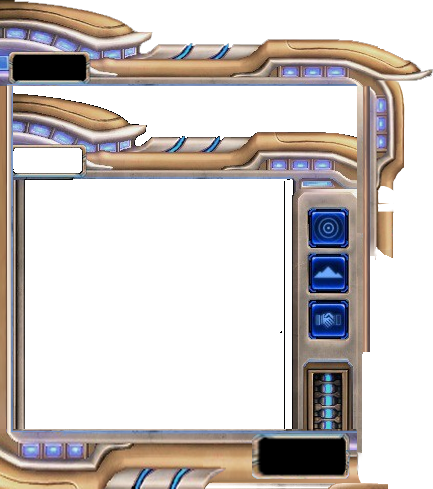
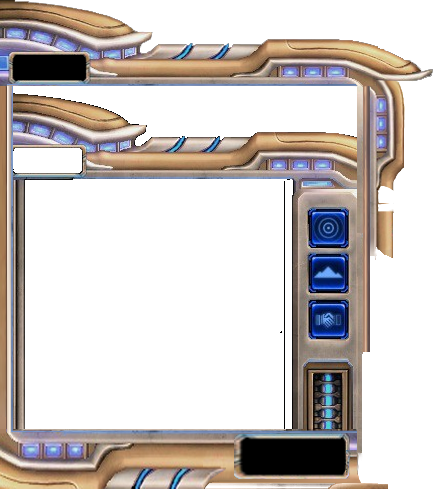
implemented basic game timer

Changed region(s): [[0.5404, 0.8896, 0.6305, 0.9816], [0.9607, 0.1227, 1.0, 0.1534], [0.6005, 0.0613, 0.6305, 0.092]]

diff --git a/src/App.js b/src/App.js
@@ -9,6 +9,18 @@ import {DefaultData} from './DefaultData';
 const MAX_EVENTS = 5;
 const EVENT_LIFETIME = 10000;
 
+function hhmmss(sec_num) {
+    let secAbs = Math.abs(sec_num);
+    var hours   = Math.floor(secAbs / 3600);
+    var minutes = Math.floor((secAbs - (hours * 3600)) / 60);
+    var seconds = secAbs - (hours * 3600) - (minutes * 60);
+
+    if (sec_num < 0) {hours = "-"+hours}
+    if (minutes < 10) {minutes = "0"+minutes;}
+    if (seconds < 10) {seconds = "0"+seconds;}
+    return hours+':'+minutes+':'+seconds;
+}
+
 class App extends Component {
     constructor(props) {
         super(props);
@@ -26,14 +38,16 @@ class App extends Component {
     testEvents() {
         var app = this;
         var counter = 0;
-        window.setInterval(() => app.pushInGameEvents(['Player ==xxTinyDick2005xx=== got an achievement <span class="achievement-name">Huge dick</span>' + ++counter]), 4000);
-        window.setInterval(() => app.pushInGameEvents(['message <span class="player-name">PLAYER</span>' + ++counter]), 5000);
+        window.setInterval(() => app.pushInGameEvents(['<span class="player-name">naturalhomemadenutella</span> has been awarded <span class="achievement-name">I Drink your Milkshake</span>']), 4000);
+        window.setInterval(() => app.pushInGameEvents(['Test text <span class="player-name">PLAasdasdYERahorseinahospital</span> has joined the game ' + ++counter]), 5000);
     }
     
     pushInGameEvents(newEvents) {
         let time = new Date().getTime();
         
         var logElement = $('.in-game-events-widget > .log');
+        
+        
         newEvents.map(item => $('<div/>').addClass("event").addClass("event-slide-x").attr('data', time).html(item).appendTo(logElement));
         
         var allEvents = logElement.find('.event');
@@ -45,6 +59,7 @@ class App extends Component {
         const app = this;
 
         this.startUpdatingInGameEventsLog();
+        this.startUpdatingInGameClock();
 
         this.eventSource.onmessage = (e) => {
             let payload = JSON.parse(e.data);
@@ -64,6 +79,15 @@ class App extends Component {
         };
     }
 
+    startUpdatingInGameClock() {
+        window.setInterval(function() {
+            let timeSeconds = Math.floor(new Date().getTime() / 1000);
+            let secondsPassed = timeSeconds - parseInt($('.zero-time').val());
+            $('.game-timer').text(hhmmss(secondsPassed)).toggleClass('negative', secondsPassed < 0);
+            
+        }, 200);
+    }
+    
     startUpdatingInGameEventsLog() {
         window.setInterval(function() {
             let time = new Date().getTime();

diff --git a/src/DefaultData.js b/src/DefaultData.js
@@ -11,7 +11,8 @@ export class DefaultData {
             },
             upgrades: {},
             attentionBanner: {text: '', enabled: false},
-            creepingLine: {text: '', enabled: false}
+            creepingLine: {text: '', enabled: false},
+            gameZeroTime: Math.floor(new Date().getTime() / 1000)
         };
         // noinspection JSUnusedGlobalSymbols
         this.debug = {
@@ -55,7 +56,8 @@ export class DefaultData {
             creepingLine: {
                 text: 'Would it be possible to change the width <span style="color: red;">attribute in the to portion</span> of the keyframe the width attribute in the to portion of the keyframe',
                 enabled: true
-            }
+            },
+            gameZeroTime: Math.floor(new Date().getTime() / 1000) + 5
         };
 		
 		let someLocalLeaderBoard = {

diff --git a/src/OverlayPanel.js b/src/OverlayPanel.js
@@ -100,9 +100,9 @@ export class OverlayPanel extends Component {
                     </div>
                 </div>
                 <div className="minimap-container">
-                    <div className="minimap">
-                    
-                    </div>
+                    <div className="minimap"/>
+                    <input className="zero-time" value={state.gameZeroTime}/>
+                    <div className="game-timer"/>
                 </div>
                 <div className="command-card">
                     <table className="structure-table">

diff --git a/src/style/minimap.css b/src/style/minimap.css
@@ -22,3 +22,24 @@ body {
     height: 342px;
     background-color: white;
 }
+
+.zero-time {
+    display:none;
+}
+
+.game-timer {
+    font-family: 'Major Mono Display', monospace;
+    font-weight: bolder;
+    font-size: 16px;
+    position: absolute;
+    left: 240px;
+    bottom: 20px;
+    text-align: center;
+    width: 105px;
+    height: 22px;
+    color: green;
+}
+
+.game-timer.negative {
+    color: red;
+}

diff --git a/src/style/entrypoint.scss b/src/style/entrypoint.scss
@@ -1,3 +1,4 @@
+@import url('https://fonts.googleapis.com/css?family=Major+Mono+Display&display=swap');
 @import url('../../node_modules/typeface-michroma/index.css');
 @import "common.css";
 @import "leaderboards.css";
